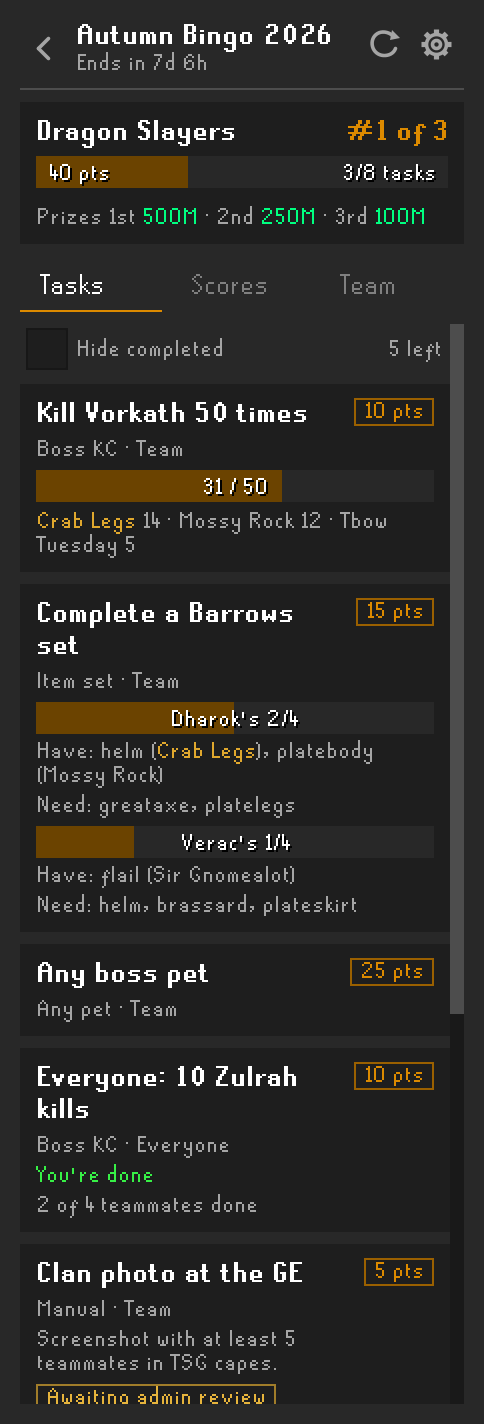
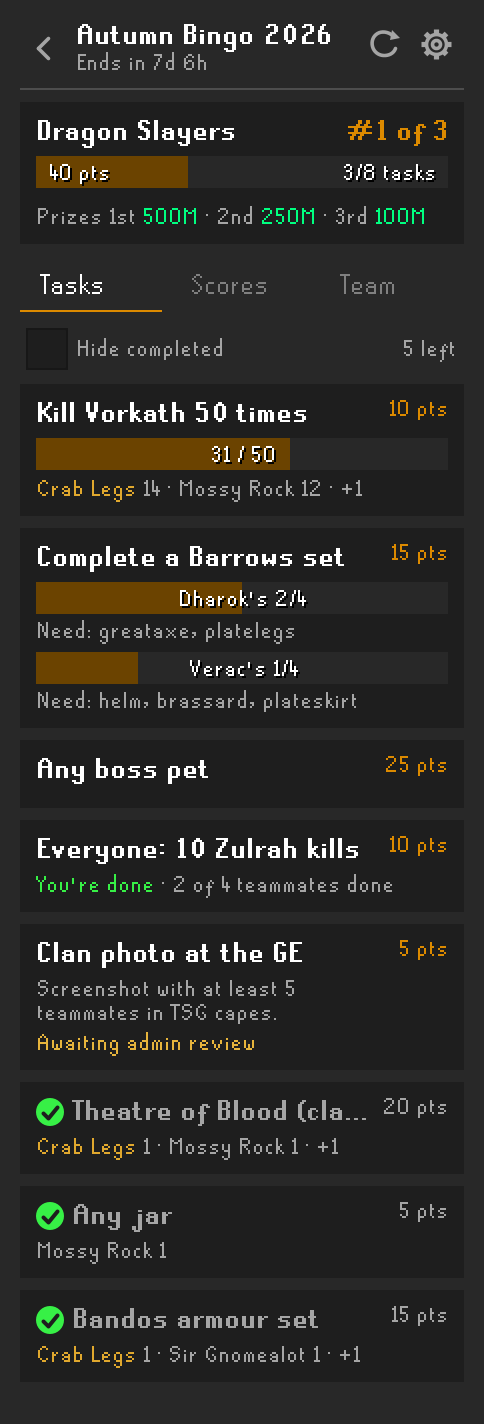
feat(board): simplify task cards

diff --git a/src/main/java/com/tsghub/TsgHubSidebarPanel.java b/src/main/java/com/tsghub/TsgHubSidebarPanel.java
@@ -2051,61 +2051,64 @@ final class TsgHubSidebarPanel extends PluginPanel
 		boolean manual = "manual".equals(str(task, "type"));
 
 		JPanel card = card();
-		JLabel name = label(html(escape(str(task, "title")), CARD_TITLE_W - (completed ? 18 : 0)),
-			completed ? MUTED : TEXT, boldFont());
+		JLabel name = shrinkable(label(str(task, "title"), completed ? MUTED : TEXT, boldFont()));
+		name.putClientProperty("html.disable", Boolean.TRUE);
 		if (completed) name.setIcon(new CheckIcon());
-		card.add(row(name, north(badge(integer(task, "points", 1) + " pts", completed ? MUTED : ACCENT))), BorderLayout.NORTH);
+		JLabel points = label(integer(task, "points", 1) + " pts", completed ? MUTED : ACCENT, smallFont());
+		card.add(row(name, north(points)), BorderLayout.NORTH);
 
 		JPanel body = stack();
-		body.add(caption(taskTypeLabel(task) + (individual ? " · Everyone" : solo ? " · Solo" : " · Team")));
 		String description = str(task, "description").trim();
 		if (!description.isEmpty() && !completed) body.add(cardNote(description));
 
 		int value = integer(progress, "progress", 0);
 		int target = Math.max(1, integer(progress, "target", 1));
+		JsonObject mine = individual || solo ? myEntry(progress) : null;
 		if (completed)
 		{
 			boolean creditedToOrganizer = bool(progress, "override") && !bool(progress, "overrideCredited");
-			body.add(label(creditedToOrganizer ? "Marked complete by an admin" : completedLine(progress), SUCCESS, smallFont()));
+			String line = creditedToOrganizer ? "Marked complete by an admin" : completedLine(progress);
+			if (!"Completed".equals(line)) body.add(label(line, SUCCESS, smallFont()));
 		}
-		else if (addSetProgress(body, individual || solo ? myEntry(progress) : progress, individual || solo))
+		else if (addSetProgress(body, individual || solo ? mine : progress, individual || solo))
 		{
-			if (individual) body.add(caption(value + " of " + target + " teammates done"));
+			if (individual) body.add(teammatesLine(mine, value, target));
 			if (solo) addSoloLeader(body, progress);
 		}
 		else if (solo)
 		{
-			JsonObject mine = myEntry(progress);
 			int have = mine == null ? 0 : integer(mine, "progress", 0);
 			if (target > 1) addBar(body, have, target, "You: " + have + "/" + target);
 			addSoloLeader(body, progress);
 		}
 		else if (individual)
 		{
-			JsonObject mine = myEntry(progress);
 			int have = mine == null ? 0 : integer(mine, "progress", 0);
 			int need = mine == null ? 1 : integer(mine, "target", 1);
 			if (mine != null && need > 1 && !bool(mine, "completed")) addBar(body, have, need, "You: " + have + "/" + need);
-			else if (mine != null && bool(mine, "completed")) body.add(label("You're done", SUCCESS, smallFont()));
-			body.add(caption(value + " of " + target + " teammates done"));
+			body.add(teammatesLine(mine, value, target));
 		}
 		else if (target > 1) addBar(body, value, target, value + " / " + target);
 		boolean setTile = array(progress, "alternatives").size() > 0 || progress.has("items");
 		if (!individual && !solo && (!setTile || completed))
 		{
-			String amounts = contributorsHtml(progress, " · ", 4, boardDisplayName);
+			String amounts = contributorsHtml(progress, " · ", 2, boardDisplayName);
 			if (!amounts.isEmpty()) body.add(cardNoteHtml(amounts));
 		}
-		if (pending && !completed)
-		{
-			body.add(Box.createVerticalStrut(GAP_S));
-			body.add(badge("Awaiting admin review", WARNING));
-		}
+		if (pending && !completed) body.add(label("Awaiting admin review", WARNING, smallFont()));
 		if (manual && !completed && !pending) addManualSubmit(body, taskId);
 		addLineSpacing(body);
-		card.add(body, BorderLayout.CENTER);
-		card.setToolTipText(memberTooltip(progress, individual, solo));
+		if (body.getComponentCount() > 0) card.add(body, BorderLayout.CENTER);
+		String detail = taskDetail(progress, individual, solo, completed);
+		card.setToolTipText("<html><b>" + escape(str(task, "title")) + "</b>" + (detail == null ? "" : "<br>" + detail) + "</html>");
 		return fitHeight(card);
+	}
+
+	private JLabel teammatesLine(JsonObject mine, int value, int target)
+	{
+		String count = value + " of " + target + " teammates done";
+		if (mine == null || !bool(mine, "completed")) return caption(count);
+		return label(html("<font color='" + toHexColor(SUCCESS) + "'>You're done</font> · " + count, CARD_TEXT_W), MUTED, smallFont());
 	}
 
 	private void addManualSubmit(JPanel body, String taskId)
@@ -2167,7 +2170,6 @@ final class TsgHubSidebarPanel extends PluginPanel
 			body.add(Box.createVerticalStrut(GAP_S));
 			body.add(bar);
 			body.add(Box.createVerticalStrut(GAP_XS));
-			if (!set.found.isEmpty()) body.add(cardNoteHtml("Have: " + set.foundHtml(boardDisplayName)));
 			if (!set.needed.isEmpty()) body.add(cardNote("Need: " + String.join(", ", set.needed)));
 		}
 		int notStarted = sets.size() - shown.size();
@@ -2179,12 +2181,29 @@ final class TsgHubSidebarPanel extends PluginPanel
 	{
 		Component[] parts = body.getComponents();
 		body.removeAll();
-		for (int i = 0; i < parts.length; i++)
+		int first = 0;
+		while (first < parts.length && parts[first] instanceof Box.Filler) first++;
+		for (int i = first; i < parts.length; i++)
 		{
 			body.add(parts[i]);
 			boolean next = i + 1 < parts.length;
 			if (next && parts[i] instanceof JLabel && parts[i + 1] instanceof JLabel) body.add(Box.createVerticalStrut(GAP_XS));
 		}
+	}
+
+	private String taskDetail(JsonObject progress, boolean individual, boolean solo, boolean completed)
+	{
+		String members = memberTooltip(progress, individual, solo);
+		if (completed || individual || solo || array(progress, "alternatives").size() == 0 && !progress.has("items")) return members;
+		List<String> lines = new ArrayList<>();
+		for (SetLine set : setLines(progress, true))
+		{
+			if (set.have == 0) continue;
+			lines.add("<b>" + escape(set.name) + " " + set.have + "/" + set.target + "</b>");
+			lines.add("Have: " + set.foundHtml(boardDisplayName));
+			if (!set.needed.isEmpty()) lines.add("Need: " + escape(String.join(", ", set.needed)));
+		}
+		return lines.isEmpty() ? members : String.join("<br>", lines);
 	}
 
 	private String memberTooltip(JsonObject progress, boolean individual, boolean solo)
@@ -2206,14 +2225,14 @@ final class TsgHubSidebarPanel extends PluginPanel
 				else if (bool(member, "completed")) done.add(name);
 				else waiting.add(need > 1 ? name + " " + have + "/" + need : name);
 			}
-			if (solo) return "<html>" + String.join("<br>", waiting) + "</html>";
-			StringBuilder text = new StringBuilder("<html>");
+			if (solo) return String.join("<br>", waiting);
+			StringBuilder text = new StringBuilder();
 			text.append("<b>Done:</b> ").append(done.isEmpty() ? "nobody yet" : String.join(", ", done));
 			text.append("<br><b>Still need:</b> ").append(waiting.isEmpty() ? "nobody" : String.join(", ", waiting));
-			return text.append("</html>").toString();
+			return text.toString();
 		}
 		String contributors = contributorsHtml(progress, "<br>", 50, boardDisplayName);
-		return contributors.isEmpty() ? null : "<html><b>Contributors</b><br>" + contributors + "</html>";
+		return contributors.isEmpty() ? null : "<b>Contributors</b><br>" + contributors;
 	}
 
 	private void addSoloLeader(JPanel body, JsonObject progress)

diff --git a/src/main/java/com/tsghub/TsgHubUi.java b/src/main/java/com/tsghub/TsgHubUi.java
@@ -968,7 +968,7 @@ final class TsgHubUi
 			JsonObject entry = contributors.get(i).getAsJsonObject();
 			parts.add(name.apply(str(entry, "displayName")) + " " + integer(entry, "amount", 1));
 		}
-		if (contributors.size() > max) parts.add("+" + (contributors.size() - max) + " more");
+		if (contributors.size() > max) parts.add("+" + (contributors.size() - max));
 		return String.join(separator, parts);
 	}
 
